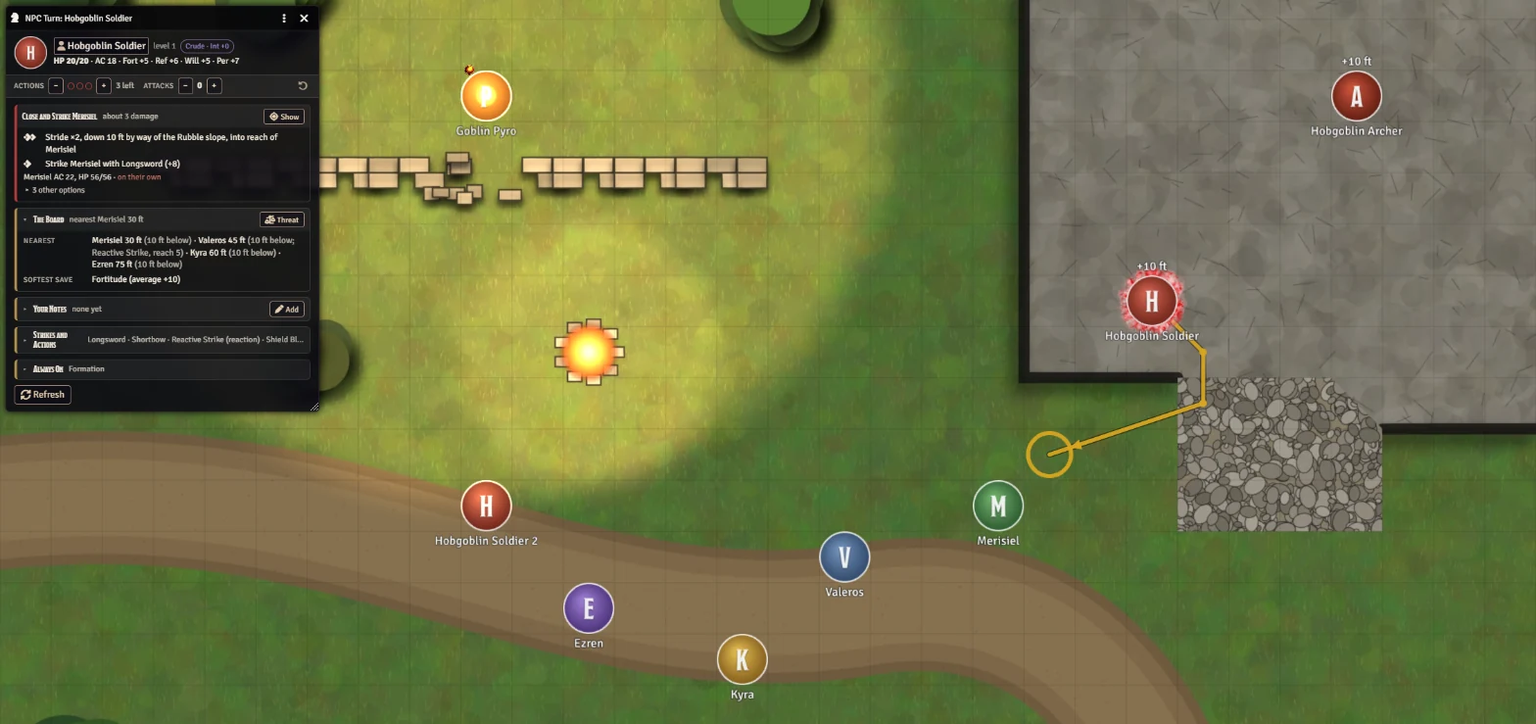
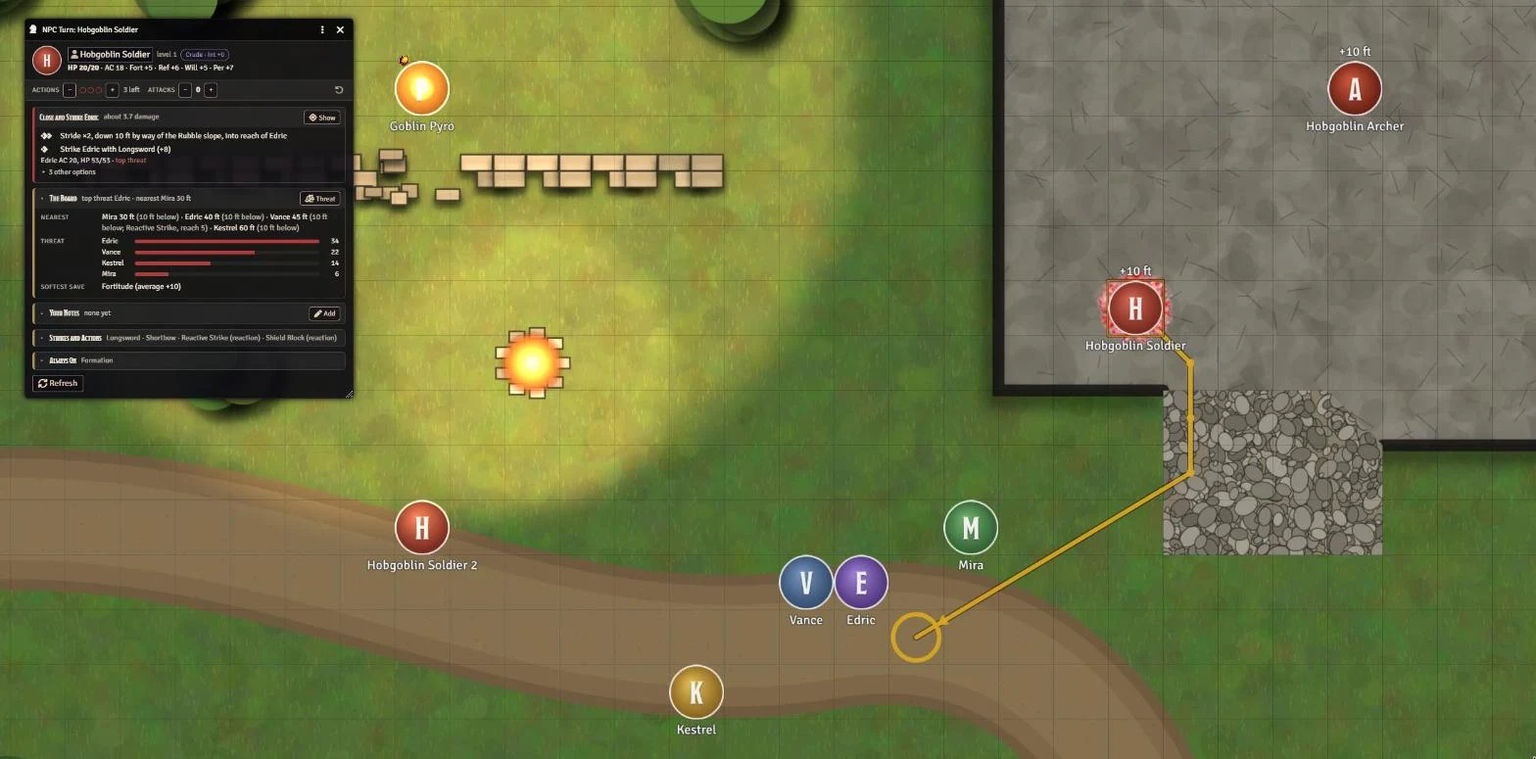
3.5.2: README pictures, shorter Your class, invented example names; Pathfinder note replaces Community Use
Claude-Session: https://claude.ai/code/session_019VWK98TqAayb9sPMxWGaKx

diff --git a/README.md b/README.md
@@ -6,7 +6,7 @@ PF2e Tactics (formerly PF2e NPC Tactics): an NPC turn card for the GM, and a Tur
 
 ![The NPC turn card beside the map, with the suggested path drawn](docs/images/turn-card.webp)
 
-It's the hobgoblin's turn on the ledge. The card suggests two Strides down the rubble slope to reach Merisiel, then a Strike, and **Show** draws that path on the map so you can check it at a glance. The Board says who is nearest (and who is 10 feet below), who could hit it with a Reactive Strike, and which save the party is weakest in.
+It's the hobgoblin's turn on the ledge. The card suggests two Strides down the rubble slope to reach Edric, the one it's most set on, then a Strike, and **Show** draws that path on the map so you can check it at a glance. The Board says who is nearest (and who is 10 feet below), who could hit it with a Reactive Strike, and which save the party is weakest in.
 
 <table>
 <tr>
@@ -15,11 +15,15 @@ It's the hobgoblin's turn on the ledge. The card suggests two Strides down the r
 </tr>
 <tr>
 <td valign="top"><b>NPC turn card.</b> A suggested turn with a damage estimate, a few other options, the board, your own notes for the creature, and every Strike and action it has. Nothing is moved or rolled for you.</td>
-<td valign="top"><b>Turn Helper</b> for players. A suggested turn for their own character, the class notes that bear on it, who can reach them and who they could flank, and what the party can see and has learned about each foe. Nothing comes from an NPC's sheet.</td>
+<td valign="top"><b>Turn Helper</b> for players. A suggested turn for their own character, with the class notes that bear on it, what's around them and what the party has learned about each foe folded underneath. Nothing comes from an NPC's sheet.</td>
 </tr>
 </table>
 
-Threat works like aggro. Each creature remembers who has been a problem for it (damage, spells and saves, healing its foes), and when two targets are close it goes for the one who has proven dangerous. Here the archer shoots Ezren, its top threat, though Merisiel is nearer. More in [Threat](#threat).
+![The Turn Helper beside the map, with the route drawn](docs/images/helper-map.webp)
+
+On Vance's turn the Turn Helper suggests two Strides along the road to the nearer hobgoblin, then a Strike. **Show** draws the route on that player's map only, and it goes round only the reactions the party has seen.
+
+Threat works like aggro. Each creature remembers who has been a problem for it (damage, spells and saves, healing its foes), and when two targets are close it goes for the one who has proven dangerous. Here the archer shoots Edric, its top threat, though Mira is nearer. More in [Threat](#threat).
 
 <table>
 <tr>
@@ -94,14 +98,14 @@ Each action on the card is tagged with what it does (movement, area, sets up, fo
 
 Only the scene that's open, on a square grid. It finds paths around walls and enemies, counts difficult terrain from Regions (PF2e's environment feature or a movement cost), and uses PF2e's own reach and ally/enemy rules.
 
-- **Closed doors**: it goes through them, and opening one costs an action (an Interact, which ends the Stride it was on). The step says so: "Stride, opening a door on the way, into reach of Valeros". Locked doors stay shut. A Step can't go through a door.
+- **Closed doors**: it goes through them, and opening one costs an action (an Interact, which ends the Stride it was on). The step says so: "Stride, opening a door on the way, into reach of Vance". Locked doors stay shut. A Step can't go through a door.
 - PF2e Terrains and PF2e Toolbelt regions: uneven ground, inclines (easy with a climb Speed) and hazardous terrain cost extra, like difficult terrain, and a plan whose path crosses them says so ("The way crosses uneven ground (Balance DC 15; off-guard on a failure)"). Toolbelt's difficult terrain counts too.
 - **Height**: a token's elevation counts, the way PF2e measures it (10 feet up beside a Medium creature is 10 feet away; a Large creature reaches 5 feet higher). Reach, range, Reactive Strike and areas all use it, and The Board says how far above or below each foe is. A flier rises or drops to a foe's height as part of its Fly. A token whose movement is set to Fly and is above its floor is up in the air: it has to Fly every turn or fall, so a turn that stays up spends an action on it ("Fly in place, to stay up"), and flying off says how high it must go to be out of reach. A walker on a ledge or bank has three ways down: walk round by a ramp, Climb an incline (PF2e Terrains; 5 feet an action, each an Athletics check unless it has a climb Speed), or drop (half the drop in damage, lands prone, Stands, which provokes like any move in reach). Anything that thinks, animals included, counts a drop as an action dearer than it is and a reaction it sets off as half an action, a Climb by how often it would fail, and walks when that's no dearer: two actions and a fall lose to three on foot. Mindless creatures take the fewest actions and go over the edge on a tie (a mindless climber climbs). Going up needs a ramp, an incline or a climb Speed.
 
   A ramp is any region named ramp, slope, path, trail, steps, stairs, switchback, collapse or breach whose elevation has a set bottom and top at least 10 feet apart (say 0 to 10 for a path cut up a 10-foot bank), and that isn't an incline, a Change Level stair or hazardous terrain. Difficult terrain on it counts. Words in brackets in its name are left off the card ("The collapse (difficult terrain)" reads "the collapse"). The path shown goes by way of it.
 
   Regions are read at the creature's height (cold water at -20 only matters down there).
-- Floors (Foundry 14 levels): walls belong to their level and paths use the creature's own; it can't reach through a floor; it sees creatures on another level only when its level looks onto theirs and the line between them doesn't pass through a floor (an archer at an upper window sees the yard, not the room under its feet). Foes it can't see on another floor are named on the card, and it goes to them by the stairs or a ladder: a Change Level region on its level that leads to theirs. Stairs are walked (their height counts as distance); a region named ladder, rope, hatch or trapdoor is climbed (5 feet an action, or its climb Speed), and the Stride to it and the one after it are separate. Close enough, it plans "Up the Stairs to Valeros" with its Strikes; otherwise it makes for them. The path shown stops at the stairs.
+- Floors (Foundry 14 levels): walls belong to their level and paths use the creature's own; it can't reach through a floor; it sees creatures on another level only when its level looks onto theirs and the line between them doesn't pass through a floor (an archer at an upper window sees the yard, not the room under its feet). Foes it can't see on another floor are named on the card, and it goes to them by the stairs or a ladder: a Change Level region on its level that leads to theirs. Stairs are walked (their height counts as distance); a region named ladder, rope, hatch or trapdoor is climbed (5 feet an action, or its climb Speed), and the Stride to it and the one after it are separate. Close enough, it plans "Up the Stairs to Vance" with its Strikes; otherwise it makes for them. The path shown stops at the stairs.
 - **What it's after**: a neutral creature its tactics or your notes name, by its whole name ("the wolves are after the mules"), counts as a target, and The Board marks it "what it's after". It reads the board when the card opens and again, while the card is showing, when a token on that scene moves or someone there takes damage or gains a condition. With no card showing it does nothing. On a hex or gridless scene it gives advice from where the creature stands.
 
 ## The turn helper (for players)
@@ -126,44 +130,52 @@ The advice needs a foe's AC, saves and HP to weigh a turn. The helper never read
 
 ## Your class
 
-All twenty-nine classes are read from the character's own sheet, every feature and feat from 1st to 20th level, keyed to the feature's slug, so the same feature from an archetype (Sneak Attacker, a Barbarian Dedication's Rage, Basic Hunter's Trick, a Wizard Dedication's Arcane Bond) is read the same way. Each read sorts the class's material three ways: actions and math-changing features become plans (scored on expected damage like the advisor's own) or marks on the board the advisor then plans with; situational and higher-level features become "when" notes that say what the feature would do on this board and when it pays, only when its condition is close (a foe within Reach Spell's extra range, two foes for Swipe, an ally with a condition for Mercy); pure passives (proficiencies, saves, senses) say nothing. Feats read by the advisor from their own text (Sudden Charge, Whirlwind Strike and the like) are set aside when the class read handles them, so nothing is counted twice. Ancestry feats and archetype feats that are actions still come through the advisor's text reading at every level.
+The Turn Helper reads all twenty-nine classes from the character's own sheet, every feature and feat from 1st to 20th level, and a dedication's features the same way. A feature that changes the turn becomes a plan; one that matters only sometimes becomes a note when its moment is close; passives stay quiet.
 
-- **Fighter**: Vicious Swing, Double Slice (Agile Grace's -3/-6 at 10th, Graceful Poise), Slam Down and Crashing Slam, Intimidating Strike, Swipe, Whirlwind Strike, Sudden Charge, Lunge, Sever Space, Overwhelming Blow, Double Shot and Triple Shot; a "Strike, then press" plan that picks the best follow-up each action (Exacting Strike, Certain Strike, Brutish Shove, Dragging Strike, Combat Grab, Advantageous Assault, Shatter Defenses, Disarming Twist, Two-Weapon Flurry, Brutal Finish, Desperate Finisher, Weapon Supremacy's fourth action); notes for the parries, ripostes, shield feats, stances, Determination (spent or not) and Fearsome Brute.
-- **Barbarian**: Rage, then Strikes with the Rage damage for your instinct and level (every instinct, the 7th- and 15th-level increases, giant's oversized weapon, animal's attacks even before you rage), Quick-Tempered, Mighty Rage, Scouring Rage; Thrash, Spirit's Wrath, Terrifying Howl, Giant's Stature and Lunge, Swipe, Whirlwind Strike, Unbalancing Sweep, Share Rage; while raging, concentrate actions without the rage trait leave the plans and the card says why; Furious Finish, Cleave, Dragon's Rage Breath, Come and Get Me, Renewed Vigor and the rest as notes with their moment.
-- **Ranger**: Hunt Prey (every prey with Double Prey and Triple Threat, Swift Prey's free Hunt at 19th), then Strikes with your edge: Flurry's penalty and Masterful Hunter's, Precision's dice on the first hit and the later hits at 17th and 19th, Outwit's AC; Twin Takedown, Hunted Shot, Deadly Aim, Impossible Flurry, Impossible Volley, Hunter's Aim, Warden's Boon; Monster Hunter folded into the Hunt; Far Shot's range; notes for the companion feats, Disrupt Prey, Camouflage and the warden spells.
-- **Champion**: your cause's reaction (all seven) with the aura's reach, the resistance or damage at your level and the feats that ride on it, Relentless (9th) and Exalted (11th) made concrete for your cause; Smite (its +3, +4 at master, +4/+6 against the opposite sanctification); Blessed Counterstrike and Gruesome Strike when the reaction has fired; Lay on Hands with Mercy (which conditions it can lift), Touch of the Void with Cruelty, Shields of the Spirit, Hero's Defiance; the oaths, auras, shield, armament and mount feats as notes.
-- **Rogue**: Sneak Attack dice (from the sheet, so multiclass rogues count too) into every plan against an off-guard foe, with a note on which weapons don't carry them; Surprise Attack, Gang Up, Dread Striker mark foes off-guard with why; the racket (Ruffian's weapon rule, Scoundrel's Feint, Mastermind's Recall Knowledge then Strike, Eldritch Trickster's spells); Twin Feint with Twist the Knife, Instant Opening, Spring from the Shadows, Skirmish Strike; Debilitating Strike with each debilitation and when to pick which, Master Strike, Impossible Striker; notes for Nimble Dodge, Opportune Backstab, Sidestep, Stay Down, Cognitive Loophole and the rest.
-- **Commander**: every tactic as a plan with its trigger read off the board (Pincer Attack, Double Team, Tactical Takedown, Coordinating Maneuvers, Passage of Lines, Protective Screen, Reload!, Shields Up!, Strike Hard!, End It!, The Bigger They Are, Pop Drop and Lock, Ready Aim Fire, Cry Havoc!, Bloody Guillotine and the rest), your own Strike on the leftover actions; the banner's reach (60 with Glorious Banner) and who is in it, how many tactics you can have prepared; Plant Banner, Rallying Banner, Set-Up Strike, Guiding Shot, Unsteadying Strike as plans; Drilled Reactions' responders. Squadmates are the player-owned allies on the scene.
-- **Magus**: Spellstrike on the best melee Strike (and the best ranged one with Starlit Span), carrying a cantrip by default: a slot is spent whether or not the Strike lands. It recommends the slot spell only when the Strike is likely (60% or better) and the spell adds enough over the cantrip (3 plus its rank), or when the foe is nearly down, and always names the other choice. The hybrid study's conflux spell as the third action while Focus Points last, else Arcane Cascade (its +1/+2/+3) or the recharge; Expansive and Devastating Spellstrike's spill onto neighbours, Lunging Spellstrike, Spell Swipe, Whirlwind Spell, Recharging Flurry; notes for the parries, Spell Crash, Cascading Ray and the rest.
-- **Thaumaturge**: Exploit Vulnerability first (Esoteric Lore against the foe's level DC, the odds, a known weakness if it beats the +2 + half level), then Strikes; once a foe is exploited, Intensify Vulnerability with your held implement's benefit, Twin Weakness; every implement's action (Chalice's sip and drain, Mirror's Reflection to flank with yourself, Wand's Fling Magic, Tome's free Recall Knowledge, the Amulet, Bell and Weapon reactions); Divine Disharmony, Root to Life, Implement's Assault; Scroll Thaumaturgy, Share Weakness, Cursed Effigy and the rest as notes.
-- **Alchemist**: Quick Alchemy and the vials left (perpetual infusions free); make-and-throw a bomb of your top tier (one action with Quick Bomber), the best additive by its worth (Debilitating, Sticky, Sour, Unstable, Exploitive), splash on the foes around it (Calculated and Expanded Splash), Far Lobber and Uncanny Bombs' range, Double Brew's second bomb, Mega Bomb; Chirurgeon's elixirs on whoever is hurt (drunk, thrown with Healing Bomb or handed over); Mutagenist's mutagen up or not; Toxicologist's poison then Strike.
-- **Cleric**: Divine Font (how many heals or harms are left, the 2-action range), heal on the ally who needs it most, harm with Channel Smite; Cast Down, Divine Weapon, Emblazon Armament, the domain spells (Fire Ray, Cry of Destruction, Weapon Surge and the rest) with Focus Points; Warpriest's Strikes and Cloistered's spells weighed against each other; Replenishment of War, Shield of Faith, Defensive Recovery and the higher feats as notes.
-- **Druid**: the order and its order spell (Tempest Surge's clumsy, Cornucopia, Rising Surf, Untamed Shift's claws); Untamed Form against the nearest foe (the form for your rank and feats: animal, insect, dinosaur, aerial, elemental, plant, dragon, monstrosity, kaiju, nature incarnate; its attack, reach, AC and temporary HP, and whether three form Strikes beat your best cast for the rest of the fight), Healing and Explosive Transformation, Dismiss and what casting costs in a form; Command an Animal (Mature Companion's single command, Heal Animal, Side by Side's off-guard); a Summon beside a foe and the Sustain after; the spellshapes, Ley Line Conduit, Hierophant's Power as notes.
-- **Wizard**: the arcane school's curriculum spells and school spells (Force Bolt, Hand of the Apprentice, Protective Wards as plans; the others when they fit), the thesis (Spell Blending, Spell Substitution, Staff Nexus, Improved Familiar Attunement); slots left by rank; Drain Bonded Item on the best spent spell (Bond Conservation, Superior Bond); cantrip or slot against the closest foe by the magus rule; Quickened Casting; Counterspell and Clever Counterspell; the spellshapes (Reach, Widen, Detonating, Scintillating and the rest) with the foes they would reach.
-- **Sorcerer**: the bloodline, its blood magic and when it pays, bloodline spells with Focus Points; slots left by rank, which slot a foe is worth, signature spells and when a lower slot does the job; Sorcerous Potency's damage; Split Shot, Dangerous Sorcery, the spellshapes and the reactions that spend slots.
-- **Bard**: Courageous Anthem (worth by the allies in reach of a foe), Lingering and Fortissimo Composition (Performance against the DC, the rounds or bonus by degree), Rallying Anthem, Dirge of Doom, Harmonize (an anthem and a Dirge at once), Symphony of the Muse, Courageous Advance/Assault/Onslaught, Vigorous Anthem, Hymn of Healing and its Sustain, Soothing Ballad, Symphony of the Unfettered Heart, Fatal Aria, Allegro; Martial Performance; Versatile Performance into Demoralize; the compositions already up (don't recast).
-- **Monk**: Flurry of Blows (two Strikes for one action, the penalty climbing, with Stunning Blows' save and Flurry of Maneuvers' Trip folded in); the stance that is up and what its Strikes are, or "enter a stance, then Flurry" when none is; Inner Upheaval with Focus Points; Tiger Slash, Wolf Drag, Dragon Roar, Gorilla Pound, Whirling Throw, One-Inch Punch, Flying Kick, Knockback Strike, Sleeper Hold, Mixed Maneuver, Disrupt Qi, Mountain Quake, Wild Winds Gust, Flinging Blow, Shattering Strike (against a known resistance); Perfected Form's first Strike at 19th and Enduring Quickness's extra action at 20th; the other stances, the qi spells and the reactions as notes.
-- **Swashbuckler**: the style's way to panache (Feint, Tumble Through, Demoralize, Bon Mot, a Performance check, Trip or Grapple) with the odds against the foe's estimated DC, then Strikes with precise strike, then a finisher last (every finisher from Confident to Illimitable, with its rider, the half damage on a failure, Combination Finisher's penalty, Keen Flair, Perfect Finisher, Deadly Grace); with panache already up, finish first and regain it, or set the foe up first; Exemplary Finisher per style; Even the Odds when you start flanked; the riposte, dodge and speed feats as notes.
-- **Investigator**: Devise a Stratagem as the decision it is: the read shows what each d20 result is worth before you commit (Strike with Intelligence and the strategic strike dice, Pointed Question first, a Trip with Athletic Strategist, or spend the roll elsewhere), free against your lead; a stratagem already rolled this round is resolved; Known Weaknesses inside the Devise; Ongoing Strategy's flat precision on every qualifying Strike; Just as Planned's second die; the methodology's riders (Quick Tincture, forensic Battle Medicine, Pointed Question); Shared and Didactic Strike for allies.
-- **Oracle**: the mystery, your curse stage and what the next stage costs ("raises your curse to 2: ..."), the cursebound feats as plans with that cost shown (Whispers of Weakness, Nudge the Scales, Debilitating Dichotomy, On Borrowed Time, The Dead Walk, Trial by Skyfire, Waters of Creation), the limit at Major and Extreme Curse, Forestall Curse; the revelation spells with Focus Points; slots and signature spells as for the sorcerer; the mystery's drawback folded into the plans it touches (ranged Strikes at -2 under ashes or tempest, a life oracle's smaller self-heal).
-- **Witch**: the patron and its hex cantrip, the lesson hexes, one hex a turn: the best hex on a foe or an ally this turn, the free cantrip hex when the better ones cost a Focus Point, a hex already up Sustained (or Cackled for free) before the next; the familiar's patron trick on the cast; Sympathetic Strike (Strike, then the hex against a lowered save); Spirit and Stitched Familiar's activities, Patron's Presence and Claim, Split Hex, Hex Master; slots and the cantrip-or-slot rule as for the wizard.
-- **Psychic**: the conscious and subconscious minds, the psi cantrips and their amps (the amp planned when it pays a Focus Point, else the plain cantrip), Unleash Psyche (whether it's up, what it adds to every spell, the stupefied after), Psi Burst, Strain Mind on an empty pool, Brain Drain, Violent Unleash; slots by rank, Counter Thought, the mind's cantrip tricks as notes.
-- **Summoner**: the eidolon on the board (its Strikes from its own sheet), the shared action pool, Act Together (Boost Eidolon while it Strikes), Manifest when it's away, the eidolon type's actions (Furious Strike, Dragon Breath, Beast's Charge, Tendril Strike...), Tandem Strike, Magical Onslaught, Lifelink Surge, Eidolon's Wrath, the symbiosis and apex abilities, Eternal Boost's extra action.
-- **Kineticist**: Channel Elements then Elemental Blasts (1 or 2 actions, melee or ranged, the right element and infusion), every damaging impulse scored on the foes it catches, overflow last with the aura's loss priced and Channel Elements next turn, the stances when they beat a blast, the gate junctions, Extract Element, Chain Infusion, Final Gate and Kinetic Pinnacle.
-- **Gunslinger**: the reload economy (reload 0/1/2, loaded or not, the way's slinger's reload with its skill action valued), Strike-reload-Strike runs with the range penalty, Paired Shots, Risky Reload, the deeds at 1/9/15 (Vital Shot, Drifter's Wake, Grim Swagger, Siegebreaker...), Fatal Bullet, Scatter Blast, Dance of Thunder, Flesh Wound on every shot.
-- **Inventor**: Overdrive (up or not, the Crafting odds), the innovation (weapon, armor, or the construct and its Command), Explode, Megaton and Gigaton Strike, Megavolt, Searing Restoration, Tamper, Overdrive Ally, the one unstable action a fight and its flat check stated as the cost.
-- **Animist** (PF2e doesn't record which apparition is primary: the read takes the vessel spell that's up, else the first on the sheet, and says so; set `flags["pf2e-tactics"].primaryApparition` to the apparition's name to choose): the apparitions attuned and the primary's vessel spell (Earth's Bile, Garden of Healing, Embodiment of Battle, Nymph's Grace, Devouring Dark Form...) with Focus Points, Sustain's worth each turn, Channeler's Stance, Relinquish Control's filter, Grudge Strike, Forest's Heart, the apparition and divine slots by rank.
-- **Exemplar**: the three ikons and where the divine spark sits (from the sheet's roll options), Shift Immanence to the ikon that pays, each ikon's transcendence as a plan with the spark economy stated ("your spark leaves it; no immanence until you Shift again"), the epithet's free rider after a transcendence, Rapid Spark, the dominion and sovereignty epithets.
-- **Guardian**: Taunt on the foe most likely to hurt an ally, then Strikes from the square that also covers that ally for Intercept Attack; Taunting Strike, Shielding Taunt, Shoulder Check, Hampering and Covering Stance, Stomp Ground, Ring Their Bell, Group Taunt, Scattering Charge, Armor Break, Clobber, Demolish Defenses; who Intercept Attack covers from here.
-- **Necromancer**: Create Thrall beside a foe and Command it, Thrall Charge, the grave spells cast from a thrall's square (Necrotic Bomb, Bone Spear, Life Tap, Bloody Tendrils, Blossoming Gore...), Draining Strike, Reclaim Power, Amalgamate, the fascination's riders when a thrall is destroyed. Thralls are found among your allies by the thrall trait or name; if your table tracks them another way, the plans still start by making one.
-- **Runesmith**: the runes known and the runes already traced, etched or tattooed, Trace then Invoke by the invocation's worth against the foe's save, Engraving Strike, Remote Detonation, Transpose Etching, Fortifying Knock, Words Fly Free, Chain of Words, the diacritics, Tracing Trance. PF2e ships no rune items, so the runesmith's advice needs the runes on the sheet: feats or effects named for them ("Atryl, Rune of Fire"; "Effect: Rune (Atryl)" on a bearer), or the module's rune flag (`flags["pf2e-tactics"].runes = { known: ["atryl", ...], tattoo: "esvadir" }`). Without either the read gives notes only, and says so.
-- **Anyone**: Battle Medicine on a hurt ally in reach (or yourself), with the DC and odds for your Medicine rank; Raise a Shield when a shield is carried; your reactions, listed, since the plans never spend them.
+| Class | What the helper plans around |
+|---|---|
+| Alchemist | Quick Alchemy bombs and their additives; elixirs for the hurt; mutagens and poisons |
+| Animist | Your primary apparition's vessel spell, Sustained while it pays |
+| Barbarian | Rage, then Strikes with your instinct's damage |
+| Bard | Which composition to play, and when Harmonize or Dirge of Doom pays |
+| Champion | Your cause's reaction and aura, Smite, Lay on Hands |
+| Cleric | Divine Font heals or harms, Channel Smite, domain spells |
+| Commander | Each tactic whose trigger the board meets, and your banner's reach |
+| Druid | Untamed Form weighed against your Strikes and spells; order spells |
+| Exemplar | Where your divine spark sits, and which transcendence pays |
+| Fighter | Double Slice, Sudden Charge, and the best follow-up after a first Strike |
+| Guardian | Taunt the foe most likely to hurt an ally, from where you can Intercept |
+| Gunslinger | The reload economy and your way's deeds |
+| Inventor | Overdrive, and unstable actions with their flat check |
+| Investigator | Devise a Stratagem: what each roll is worth before you commit it |
+| Kineticist | Elemental Blast or an impulse, overflow last |
+| Magus | Spellstrike with a cantrip, or a slot spell when it clearly pays; the conflux spell after |
+| Monk | Flurry of Blows in your stance |
+| Necromancer | A thrall beside a foe, then spells cast from its square |
+| Oracle | Cursebound feats, with what the next curse stage costs |
+| Psychic | Amped psi cantrips and Unleash Psyche |
+| Ranger | Hunt Prey, then Strikes with your hunter's edge |
+| Rogue | Sneak Attack on whoever is off-guard to you, and how to make them so |
+| Runesmith | Trace, then Invoke the rune worth most |
+| Sorcerer | Which slot a foe is worth, and when blood magic pays |
+| Summoner | Act Together with your eidolon on the shared actions |
+| Swashbuckler | Panache, Strikes, then a finisher |
+| Thaumaturge | Exploit Vulnerability, then your implement |
+| Witch | One hex a turn; the free cantrip hex when it's enough |
+| Wizard | School spells, Drain Bonded Item, spellshapes |
 
+Every character also gets Battle Medicine, Raise a Shield and a list of their reactions (the plans never spend them).
 
+**Companions and summons.** Command an Animal (or Sustain a summon), then your best two actions at the same foe, as one turn. A minion is yours when it names you as its master (set `flags.pf2e.master` on a companion to be sure) or the same player owns it.
 
-Companions, summons and familiars, whatever the class (a ranger's wolf, a champion's steed, a beastmaster's or a druid's companion, a wizard's summon): the companion's Command (1 action, two actions for it, its own Strike numbers from its sheet, a mature companion's free action counted) and then your best two actions at the same foe, as one turn; a summoned creature's Sustain the same way, or the summon spell cast beside a foe; Side by Side's flank. A familiar gets a note: it acts only when Commanded and doesn't attack. A minion is yours when it names you as its master (a familiar does; set `flags.pf2e.master` to your character's id on a companion to make sure), or else when it's a companion or summon owned by the same player as you. The eidolon, the inventor's construct and the necromancer's thralls are read with their classes.
+**Spell thrift.** A slot spell is recommended only when it beats your best damaging cantrip by enough. The bar rises with the slot's rank and falls as more slots of that rank remain. Scrolls, wands and staves (through PF2e Dailies) are weighed the same way. Setting (per player): "Turn Helper: spell thrift": Frugal, Normal (default) or Free-spending.
 
-Spell thrift: a slot spent now is gone for the day's later fights, so the Turn Helper recommends a slot spell only when it beats your best cantrip by a margin that grows with the slot's rank (the top ranks are the day's decisive spells) and shrinks as more slots of that rank remain; two foes caught, or a foe the spell can drop, halves the margin. Cantrips (which heighten with your level), focus spells, heals and buffs cost nothing and come first when the gain is small. A scroll or a wand counts as a slot of its rank with one use: a scroll is gone once read, a wand is spent for the day; the plan says so ("Uses up the scroll"). A temporary scroll made at the day's preparations (Scroll Adept, through PF2e Dailies) is held back only lightly, since it's gone tomorrow anyway. A staff prepared with PF2e Dailies is read too: its spells cost charges equal to their rank (its cantrips cost none), are cast with the staff's DC, and are weighed by how many uses of that rank the charges left pay for ("Spends 3 of your staff's 9 charges"). With no damaging cantrip prepared, a slot spell is weighed against your best turn that spends nothing at all (no slot, Focus Point, scroll, wand or staff charge), usually your Strikes. The plan says the numbers ("has to beat Electric Arc by about 13; it does by 40, so spend it"), and the slot spell stays in the alternatives with what it's worth here. Setting (per player): "Turn Helper: spell thrift": Frugal, Normal (default) or Free-spending.
+**Sheet setup a few classes need.**
+
+- Animist: PF2e doesn't record your primary apparition. The helper takes the vessel spell that's up, else the first on the sheet; set `flags["pf2e-tactics"].primaryApparition` to its name to choose.
+- Runesmith: PF2e ships no rune items. Name feats or effects for your runes ("Atryl, Rune of Fire"), or set `flags["pf2e-tactics"].runes = { known: ["atryl", ...], tattoo: "esvadir" }`. Without either you get notes only.
+- Necromancer: thralls are found among your allies by the thrall trait or name.
+- Commander: your squadmates are the player-owned allies on the scene.
 
 Setting (per player): "Turn Helper: open on my turn", off by default. On, the window opens when your character's turn starts. The macro opens it any time for the selected owned token, or your assigned character.
 
@@ -304,6 +316,6 @@ Open an [issue](https://github.com/Sir-Bayard/pf2e-tactics/issues).
 
 [MIT](LICENSE). Copyright (c) 2026 Sir Bayard.
 
-## Paizo Community Use
+## Pathfinder
 
-PF2e Tactics uses trademarks and/or copyrights owned by Paizo Inc., used under Paizo's Community Use Policy ([paizo.com/licenses/communityuse](https://paizo.com/licenses/communityuse)). We are expressly prohibited from charging you to use or access this content. PF2e Tactics is not published, endorsed, or specifically approved by Paizo. For more information about Paizo Inc. and Paizo products, visit [paizo.com](https://paizo.com).
+PF2e Tactics is an unofficial, free module for the Pathfinder Second Edition system on Foundry VTT. It is not published, endorsed or specifically approved by Paizo Inc. Pathfinder is a trademark of Paizo Inc., used here only to say which game the module works with. The module follows the game's rules, which Paizo publishes under the ORC License, and refers to them by name; it doesn't reproduce Paizo's rules text, art or setting material.

diff --git a/CHANGELOG.md b/CHANGELOG.md
@@ -5,6 +5,7 @@
 - Show for players: when the recommended turn moves you or aims an area, Show draws the route on your map, as it does on the GM's card. Only you see it. The route goes round only the reactions the party has seen this fight. It clears when the turn passes or the window closes.
 - Each turn starts with only Your Turn open. Worth Knowing, Around You and Foes start folded; one you open stays open for the rest of that turn.
 - Your Turn has a green edge (the GM's card keeps red), and the action pips and bars on the helper match.
+- README: new pictures (including the player's Show), a much shorter "Your class" section, invented names in the examples in place of Paizo's iconic characters, and a short Pathfinder trademark note in place of the Community Use notice.
 
 ## 3.5.1
 
@@ -99,7 +100,7 @@ Checked with every class's own tests (56), all 30 test characters' real sheets, 
 ## 3.0.0
 
 - The module id is now pf2e-tactics (folder and zip too). Settings carry over on first load; flags written under the old id are still read; the old id's API is mirrored while the old folder is installed.
-- Fighter, Barbarian, Ranger and Champion in classes.mjs (YOUR CLASS), each checked against the iconic pregens (Valeros, Amiri, Ekundayo, Seelah) on the live board; a reactions line for every class; Twin Takedown, Double Slice, Smite, Rage and Hunt Prey plans; the advisor's own reading of those actions is set aside.
+- Fighter, Barbarian, Ranger and Champion in classes.mjs (YOUR CLASS), each checked against four pregenerated characters (Vance, Brakka, Corin, Sabine) on the live board; a reactions line for every class; Twin Takedown, Double Slice, Smite, Rage and Hunt Prey plans; the advisor's own reading of those actions is set aside.
 
 ## 2.1.0
 
@@ -246,7 +247,7 @@ Checked with every class's own tests (56), all 30 test characters' real sheets, 
 ## 1.1.0
 
 - Cones and lines count distance like movement (every second diagonal is 10 feet). 1.0.0 measured a straight line, so a cone could seem to reach a creature 20 feet away on two diagonals.
-- When the path goes round someone's reach to avoid a reaction, the step says so ("the long way round, keeping out of Valeros's reach").
+- When the path goes round someone's reach to avoid a reaction, the step says so ("the long way round, keeping out of Vance's reach").
 - Show draws the path on your map, visible only to you.
 
 ## 1.0.0
